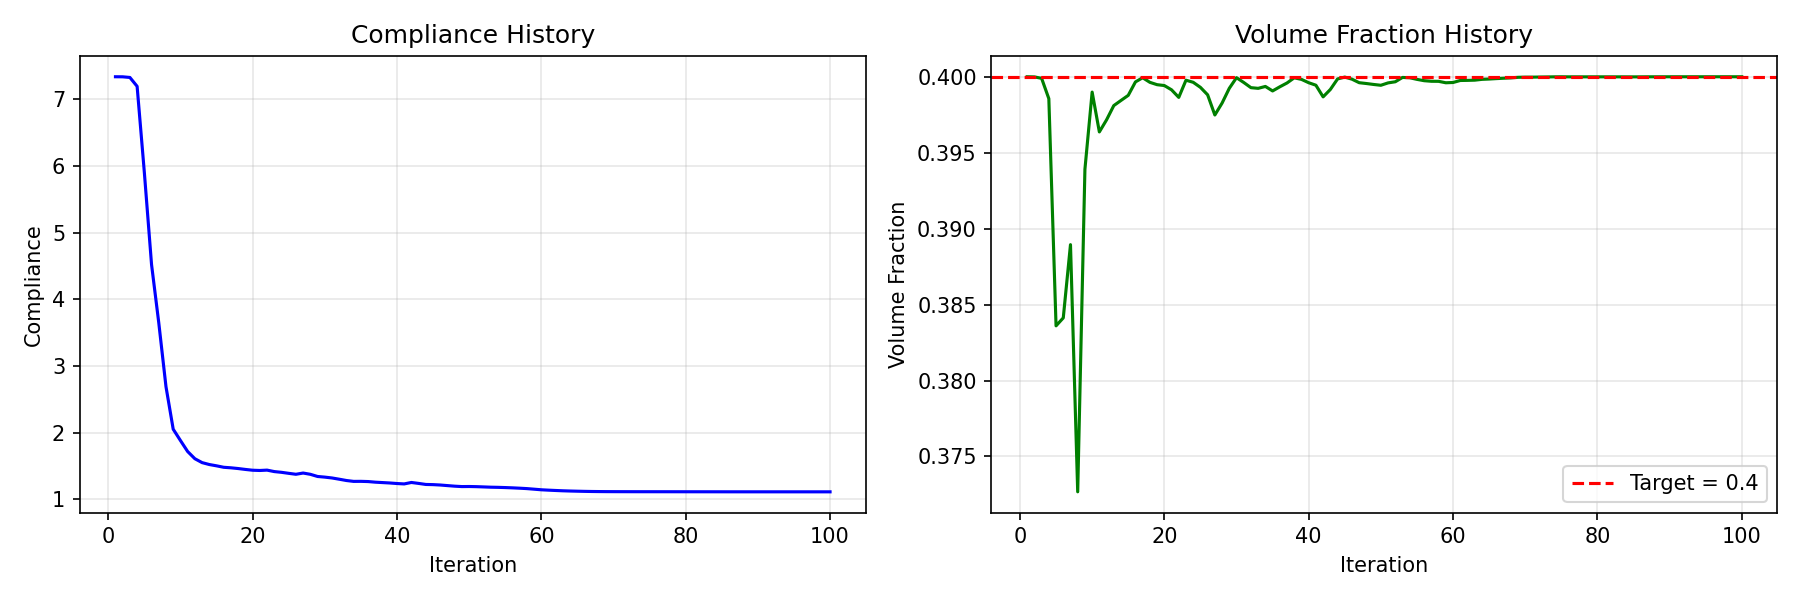
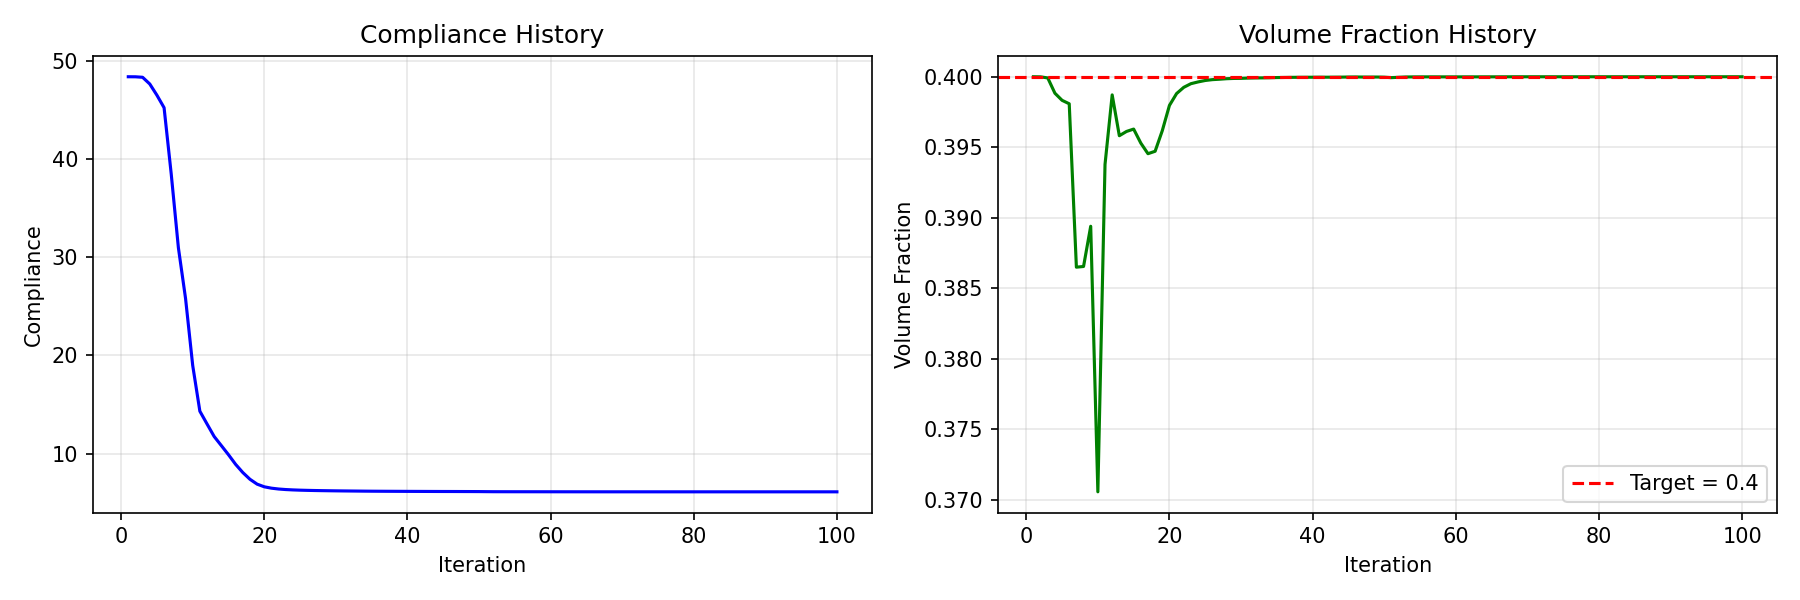
Updated DockerFile: CUDA-13

diff --git a/examples/advance/topology_optimization.py b/examples/advance/topology_optimization.py
@@ -24,10 +24,10 @@ target_fraction = 0.4  # Target volume fraction
 
 # Geometry
 L = 100  # Length
-W = 4    # Width
+W = 20    # Width
 H = 20   # Height
 box_size = (L, W, H)
-mesh = fe.mesh.box_mesh(box_size, mesh_size=1)
+mesh = fe.mesh.box_mesh(box_size, mesh_size=0.5)
 tol = 1e-3  # Boundary tolerance
     
 # Locations

diff --git a/examples/basic/linear_elasticity.py b/examples/basic/linear_elasticity.py
@@ -5,7 +5,7 @@ import os
 
 elastic_moduli = 70e3
 poisson_ratio = 0.3
-traction = 1.
+traction = 1e-3
 tol = 1e-5
 
 # Define mesh
